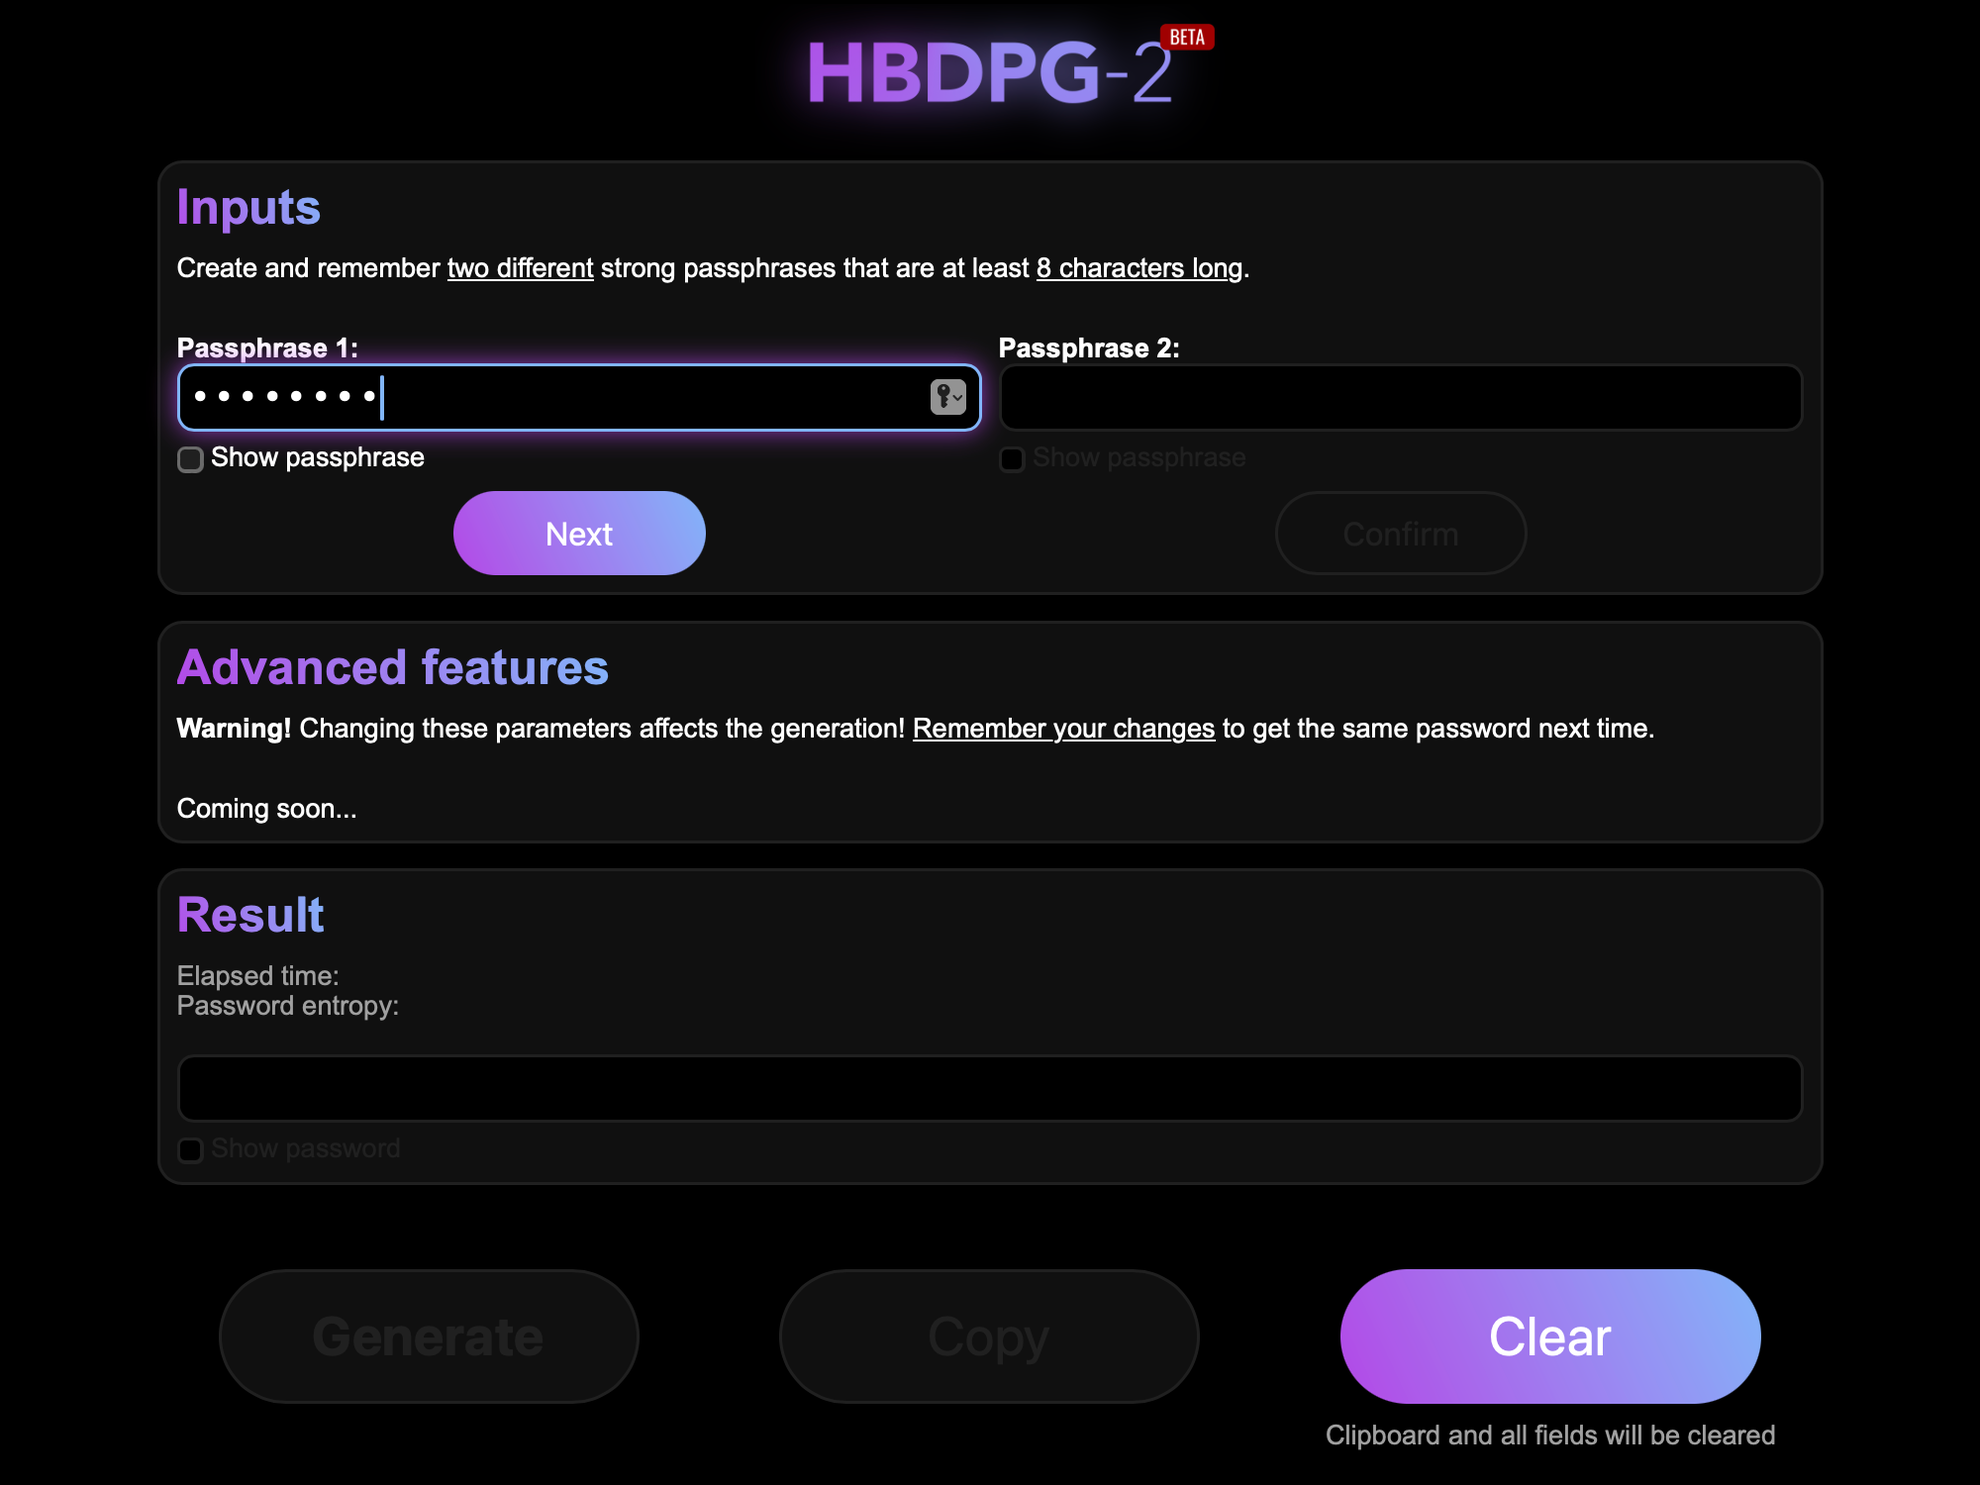
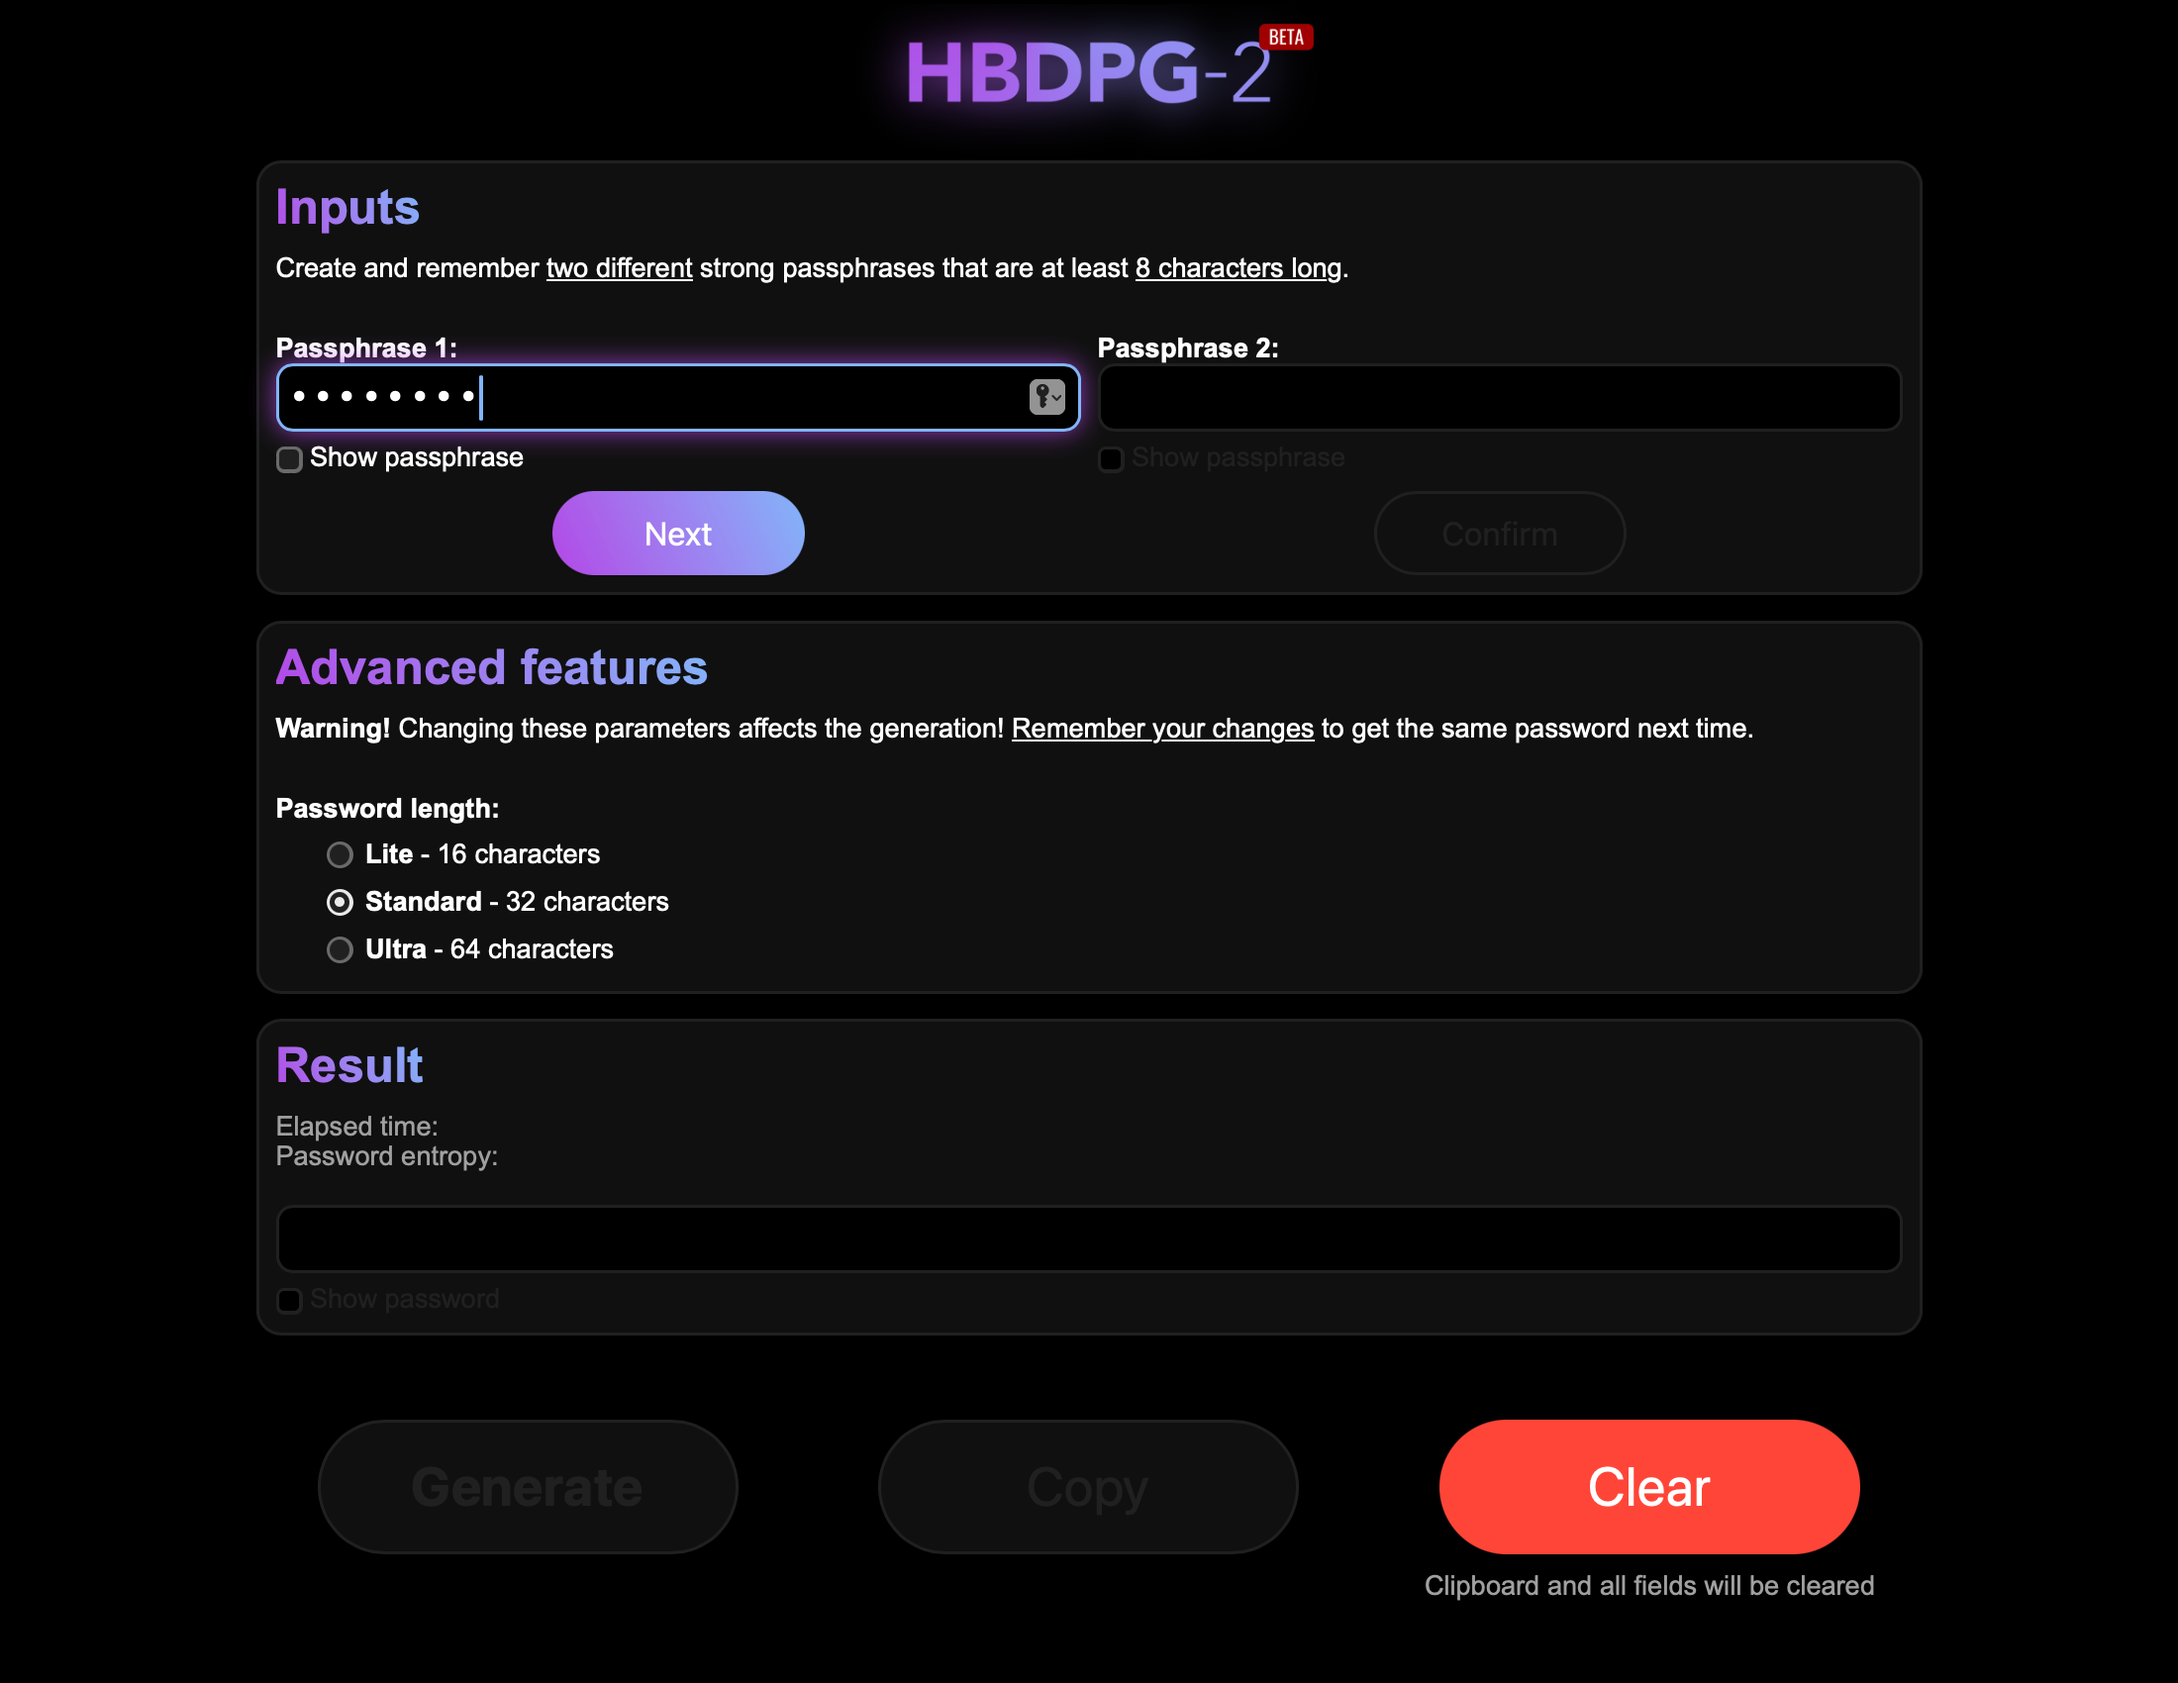
Update README, add new screenshots

diff --git a/README.md b/README.md
@@ -26,6 +26,10 @@
 
 ## About
 
+<p align="center">
+  <img src="pictures/screenshots-mobile.png" alt="Screenshots">
+</p>
+
 **HBDPG-2** *(Hashing-based Deterministic Password Generator – 2nd Gen)* is a open-source, cross-platform Web-application for deterministic password generation with a focus on security and brute-force attack resistance. The application is designed to solve the problem of creating, remembering and storing strong passwords.
 
 Password generation is performed **on the user's device**. User secrets (passphrases, passwords, other sensitive data) are not transmitted to servers. The generated password is 32 characters long (by default) and contains uppercase letters, lowercase letters, numbers, and symbols. This meets **all modern password standards**.
@@ -52,6 +56,10 @@ Please choose **one** of the following usage options:
 You can use HBDPG-2 via browser by following this link: https://piotr-kniaz.github.io/HBDPG-2/
 
 ### Install application (recommended)
+
+<p align="center">
+  <img src="pictures/screenshot-desktop-installation.png" alt="Installation">
+</p>
 
 You can install HBDPG-2 as Progressive Web App to have quick access from your Home Screen or Desktop.
 
@@ -93,8 +101,6 @@ After using the generated password, **click the `Clear` button** so that your pa
 **Warning!** Changing these parameters affects the generation! **Remember your changes** to get the same password next time.
 
 ### Password length
-
-> *Feature in development*
 
 You can choose the password length from three types:
 * **Lite** – 16 characters *(minimum length recommended by CISA)*
